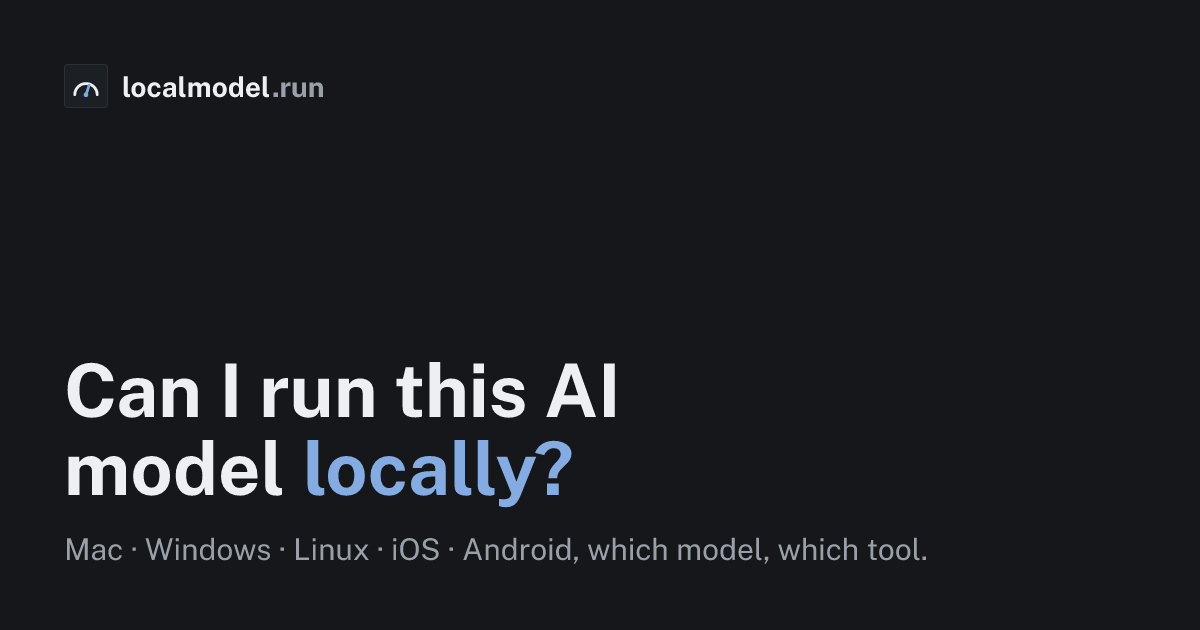
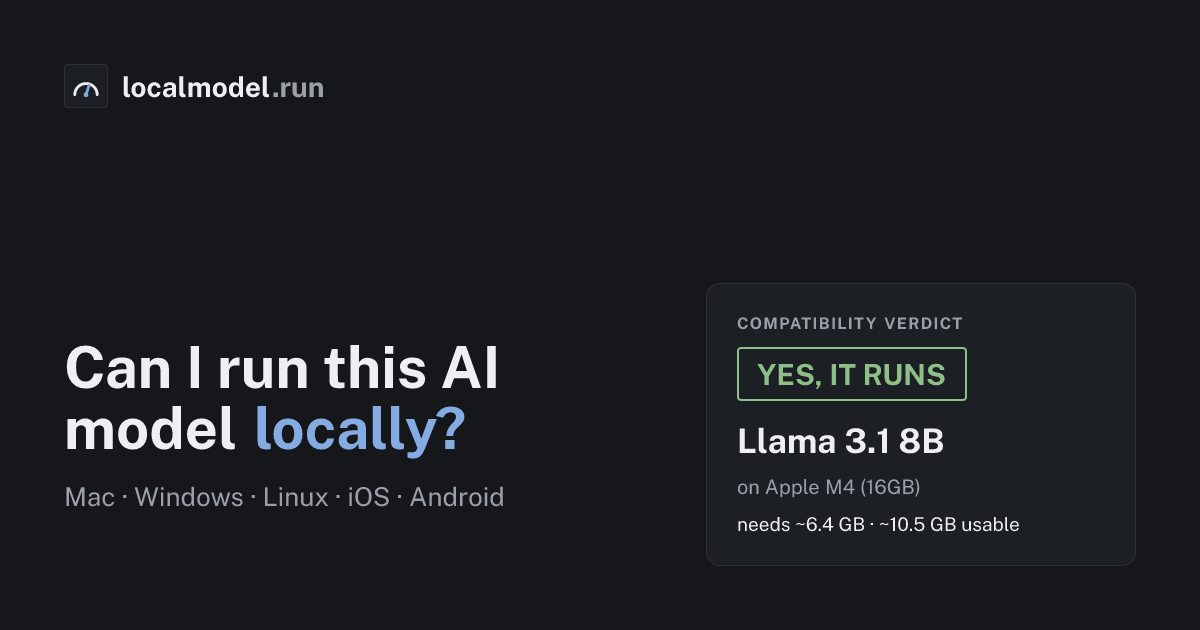
feat: simplify OG social card copy and add a sample verdict card

diff --git a/src/lib/og.ts b/src/lib/og.ts
@@ -87,10 +87,19 @@ const shell = (inner: string) => `
 
 export function homeCard(): string {
   return shell(`
-  <div style="display:flex;flex-direction:column;margin-top:auto">
-    <div style="display:flex;font-size:74px;font-weight:700;line-height:1.05">Can I run this AI</div>
-    <div style="display:flex;font-size:74px;font-weight:700;line-height:1.05">model <span style="color:${C.brand};margin-left:18px">locally?</span></div>
-    <div style="display:flex;font-size:30px;color:${C.muted};margin-top:24px">Mac · Windows · Linux · iOS · Android, which model, which tool.</div>
+  <div style="display:flex;align-items:center;gap:52px;margin-top:auto">
+    <div style="display:flex;flex-direction:column;flex:1">
+      <div style="display:flex;font-size:58px;font-weight:700;line-height:1.05">Can I run this AI</div>
+      <div style="display:flex;font-size:58px;font-weight:700;line-height:1.05">model <span style="color:${C.brand};margin-left:16px">locally?</span></div>
+      <div style="display:flex;font-size:26px;color:${C.muted};margin-top:22px">Mac · Windows · Linux · iOS · Android</div>
+    </div>
+    <div style="display:flex;flex-direction:column;width:430px;padding:30px;border-radius:14px;background:${C.bg2};border:1px solid ${C.border};gap:14px">
+      <div style="display:flex;font-size:16px;font-weight:600;letter-spacing:0.08em;color:${C.muted}">COMPATIBILITY VERDICT</div>
+      <div style="display:flex;align-self:flex-start;border:2px solid ${C.green};border-radius:4px;padding:8px 18px;font-size:29px;font-weight:700;color:${C.green}">YES, IT RUNS</div>
+      <div style="display:flex;font-size:34px;font-weight:700;margin-top:6px">Llama 3.1 8B</div>
+      <div style="display:flex;font-size:20px;color:${C.muted}">on Apple M4 (16GB)</div>
+      <div style="display:flex;font-size:19px">needs ~6.4 GB · ~10.5 GB usable</div>
+    </div>
   </div>`)
 }
 